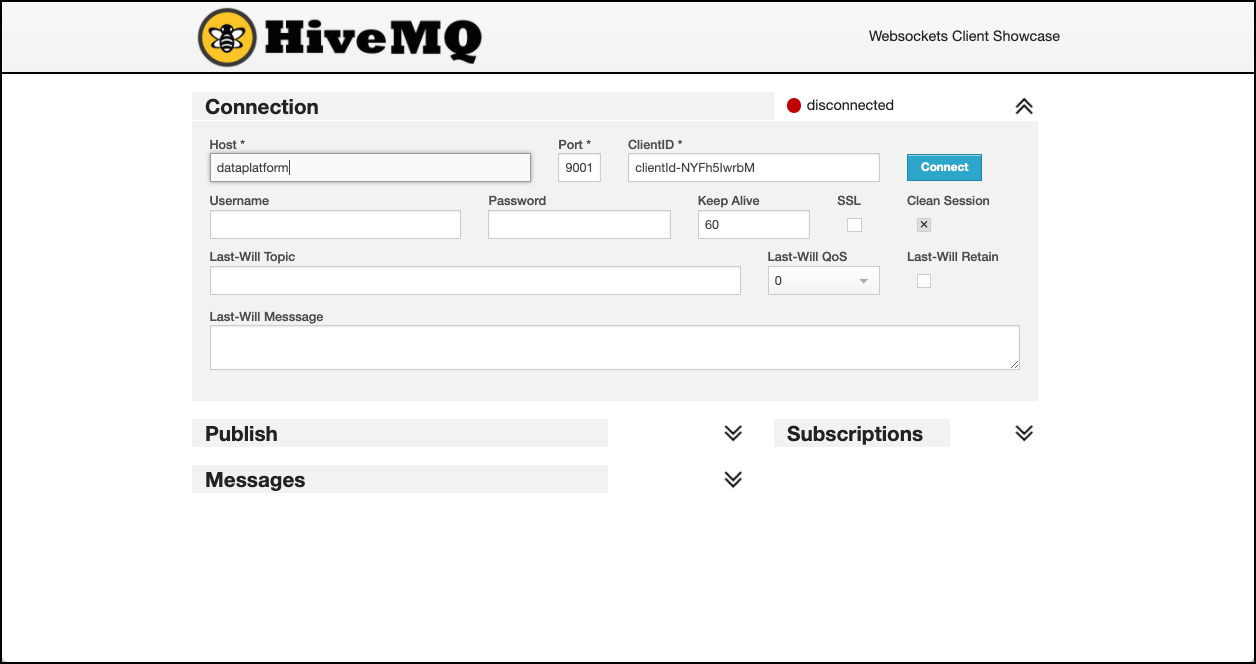
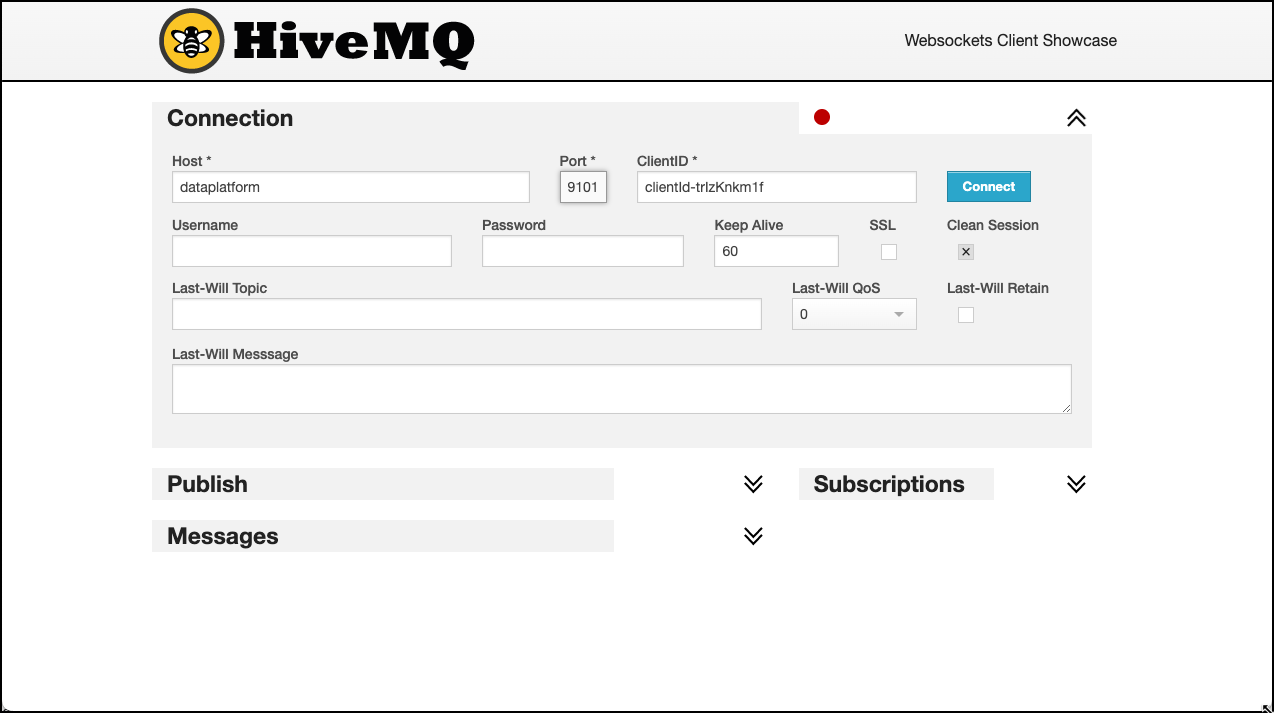
update port of mosquitto-1 to 9101

diff --git a/10-iot-data-ingestion-over-mqtt/README.md b/10-iot-data-ingestion-over-mqtt/README.md
@@ -71,7 +71,7 @@ The consumed messages will show up in the terminal.
 
 #### Using HiveMQ Web UI  
 
-To start consuming using the MQTT UI ([HiveMQ Web UI](https://www.hivemq.com/docs/3.4/web-ui/introduction.html)), navigate to <http://dataplatform:28136> and connect using `dataplatform` for the **Host** field, `9001 ` for the **Port** field and then click on **Connect**: 
+To start consuming using the MQTT UI ([HiveMQ Web UI](https://www.hivemq.com/docs/3.4/web-ui/introduction.html)), navigate to <http://dataplatform:28136> and connect using `dataplatform` for the **Host** field, `9101 ` for the **Port** field and then click on **Connect**: 
 
 ![Alt Image Text](./images/mqtt-ui-connect.png "MQTT UI Connect")
 	
